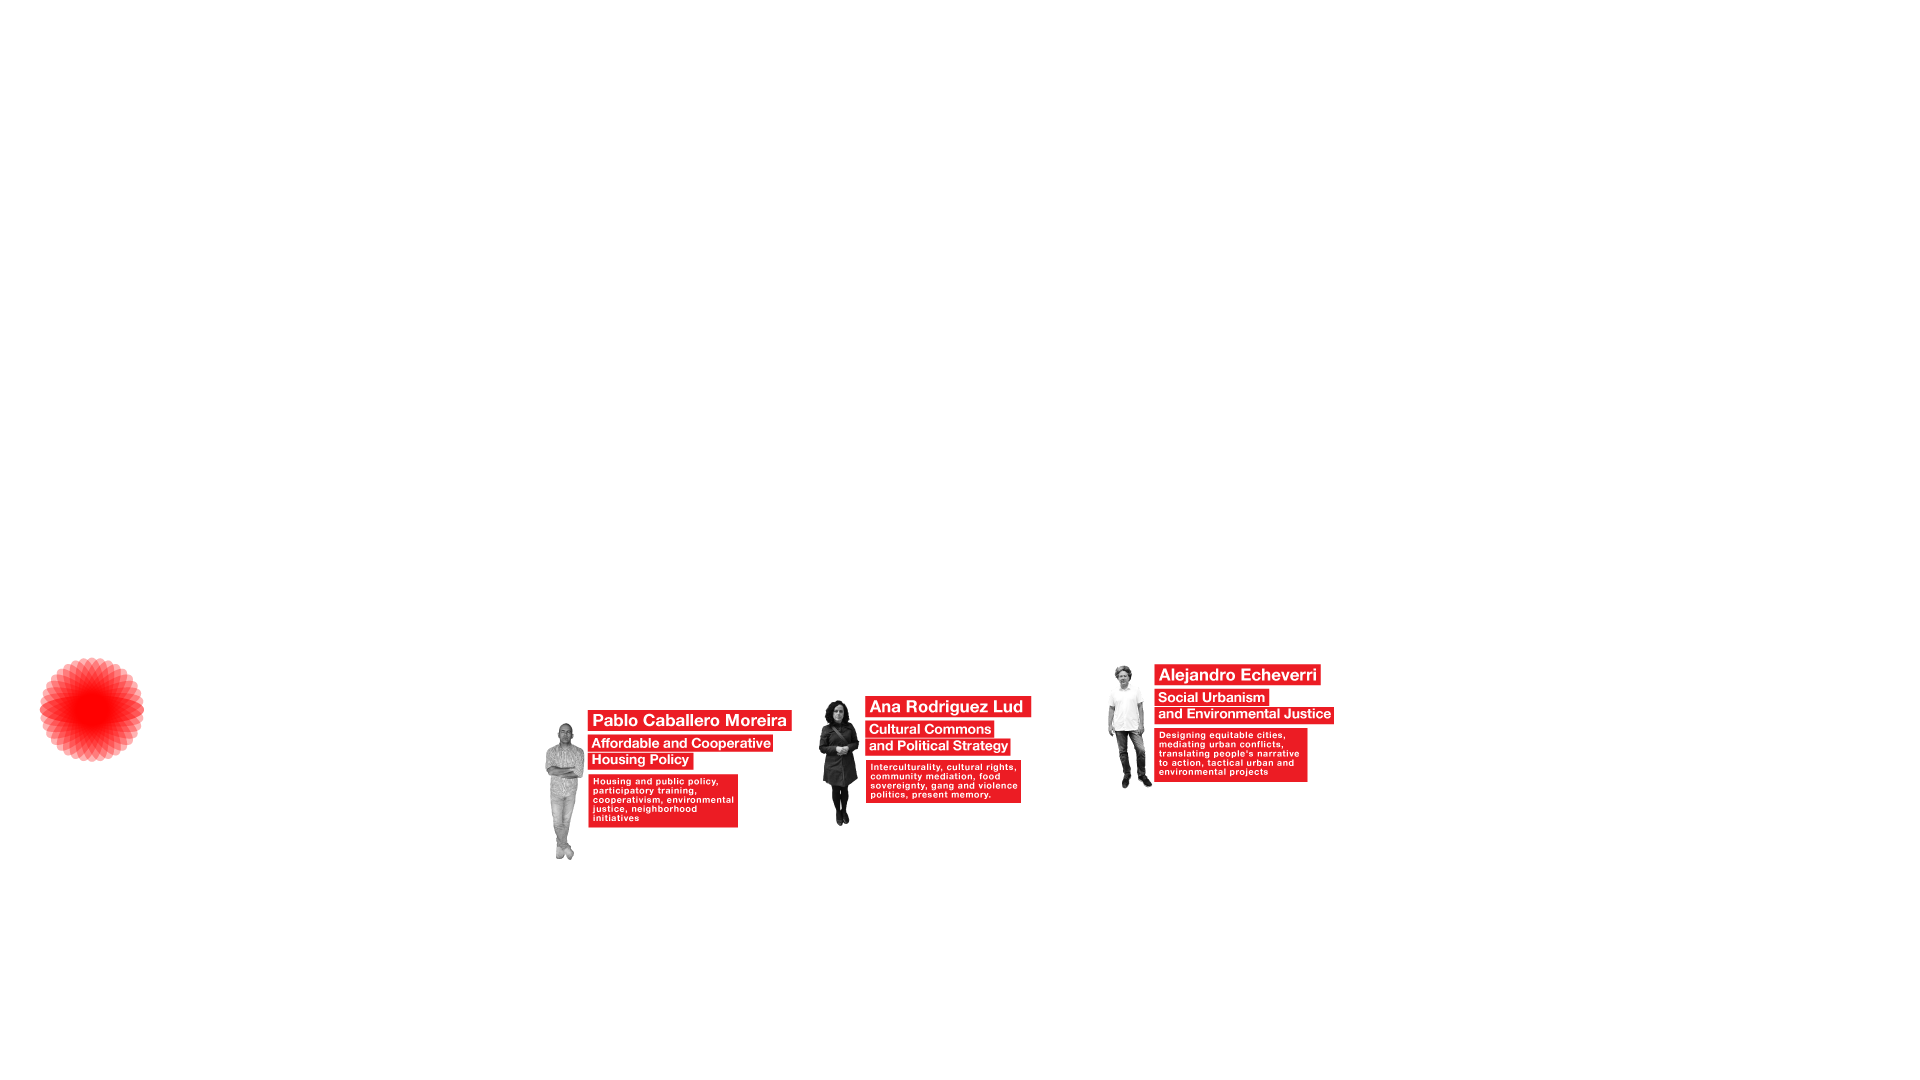
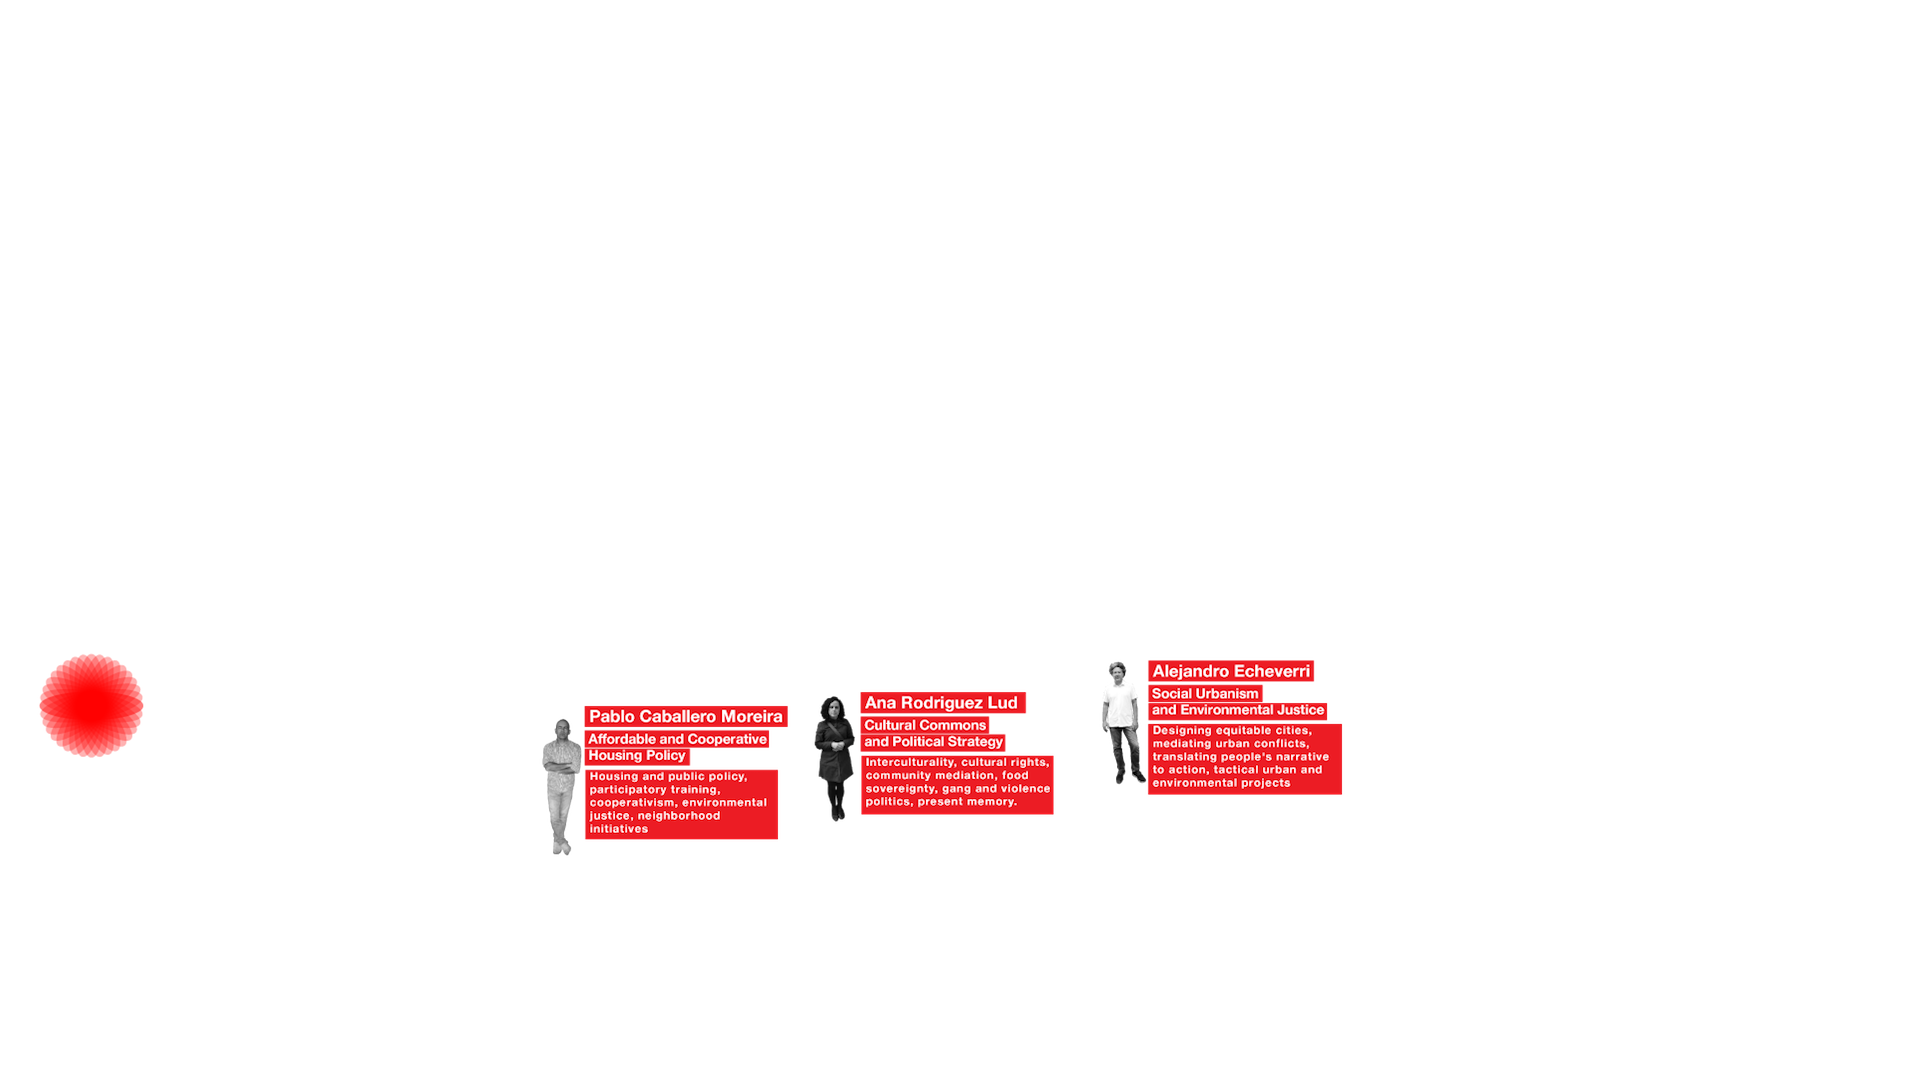
Updating with title

Changed region(s): [[0.3089, 0.6453, 0.556, 0.7989], [0.5869, 0.6145, 0.7105, 0.7374]]

diff --git a/src/TextFading.cpp b/src/TextFading.cpp
@@ -45,11 +45,11 @@ void TextFading::draw() {
 		ofSetColor(255, 255, 255, ofMap(easedValue, 0.0, 1.0, 255, 0));
 	}
 	// Left image
-	texts[textIncrementer].draw(0, 0, 639, 414);
+	texts[textIncrementer].draw(0, 100, 639, 414);
 	// Center image
-	texts[(textIncrementer + 1) % texts.size()].draw(fixedWidth/3.0, 0, 639, 414);
+	texts[(textIncrementer + 1) % texts.size()].draw(fixedWidth/3.0, 100, 639, 414);
 	// Right image
-	texts[(textIncrementer + 2) % texts.size()].draw(fixedWidth/3.0 * 2.0, 0, 639, 414);
+	texts[(textIncrementer + 2) % texts.size()].draw(fixedWidth/3.0 * 2.0, 100, 639, 414);
 	ofPopStyle();
 	ofPopMatrix();
 }

diff --git a/src/ofApp.cpp b/src/ofApp.cpp
@@ -20,6 +20,7 @@ void ofApp::setup(){
 //--------------------------------------------------------------
 void ofApp::setupMedia(){
 	// IMAGES
+	title.load("images/title.png");
 	text1.load("images/manifesto-1.png");
 	text2.load("images/manifesto-2.png");
 	text3.load("images/manifesto-3.png");
@@ -140,6 +141,7 @@ void ofApp::draw(){
 //--------------------------------------------------------------
 void ofApp::drawBackground(){
 	ofBackground(0);
+	title.draw(0, 0, 800, 130);
 	manifestoFading.update(incrementer);
 	manifestoFading.draw();
 }

diff --git a/src/ofApp.h b/src/ofApp.h
@@ -57,6 +57,7 @@ class ofApp : public ofBaseApp{
     	std::array<HandMarker, 3> handMarkers;
 
         // All images declared here
+        ofImage title;
         ofImage text1, text2, text3, text4, text5, text6, text7, text8, text9, text10, text11;
         ofImage peopleEurope, peopleNorthAmerica, peopleSouthAmerica;
         // ofImage personName;
